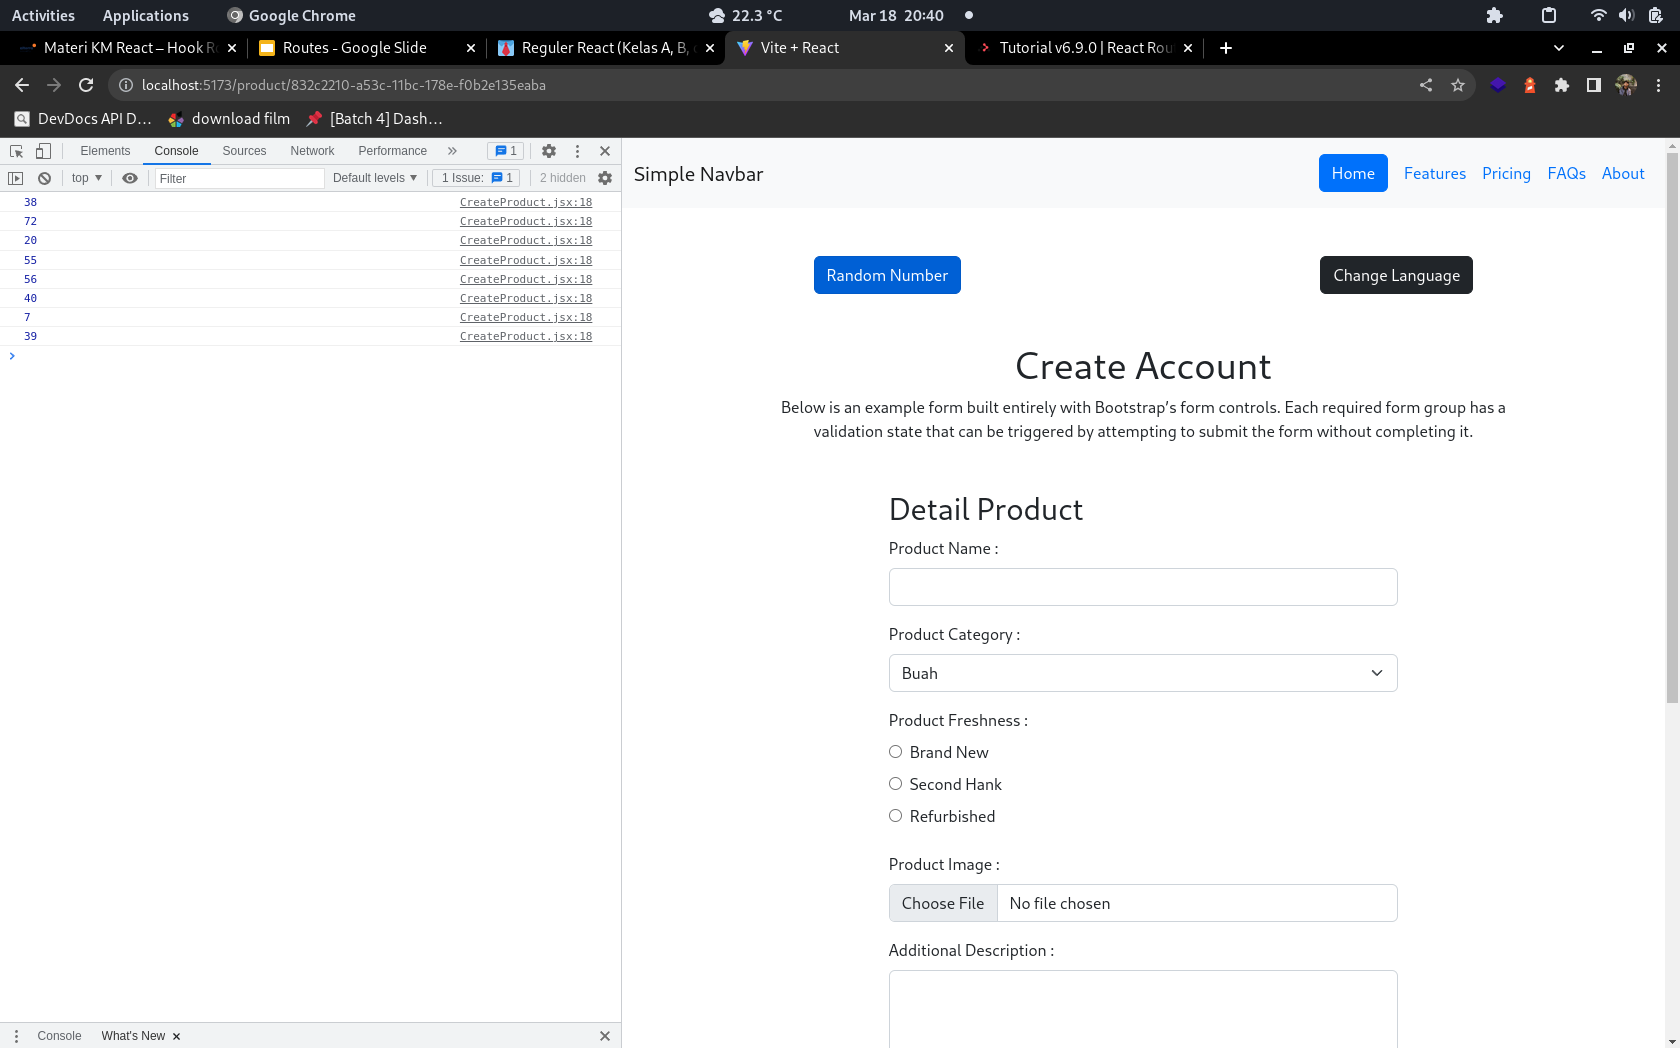
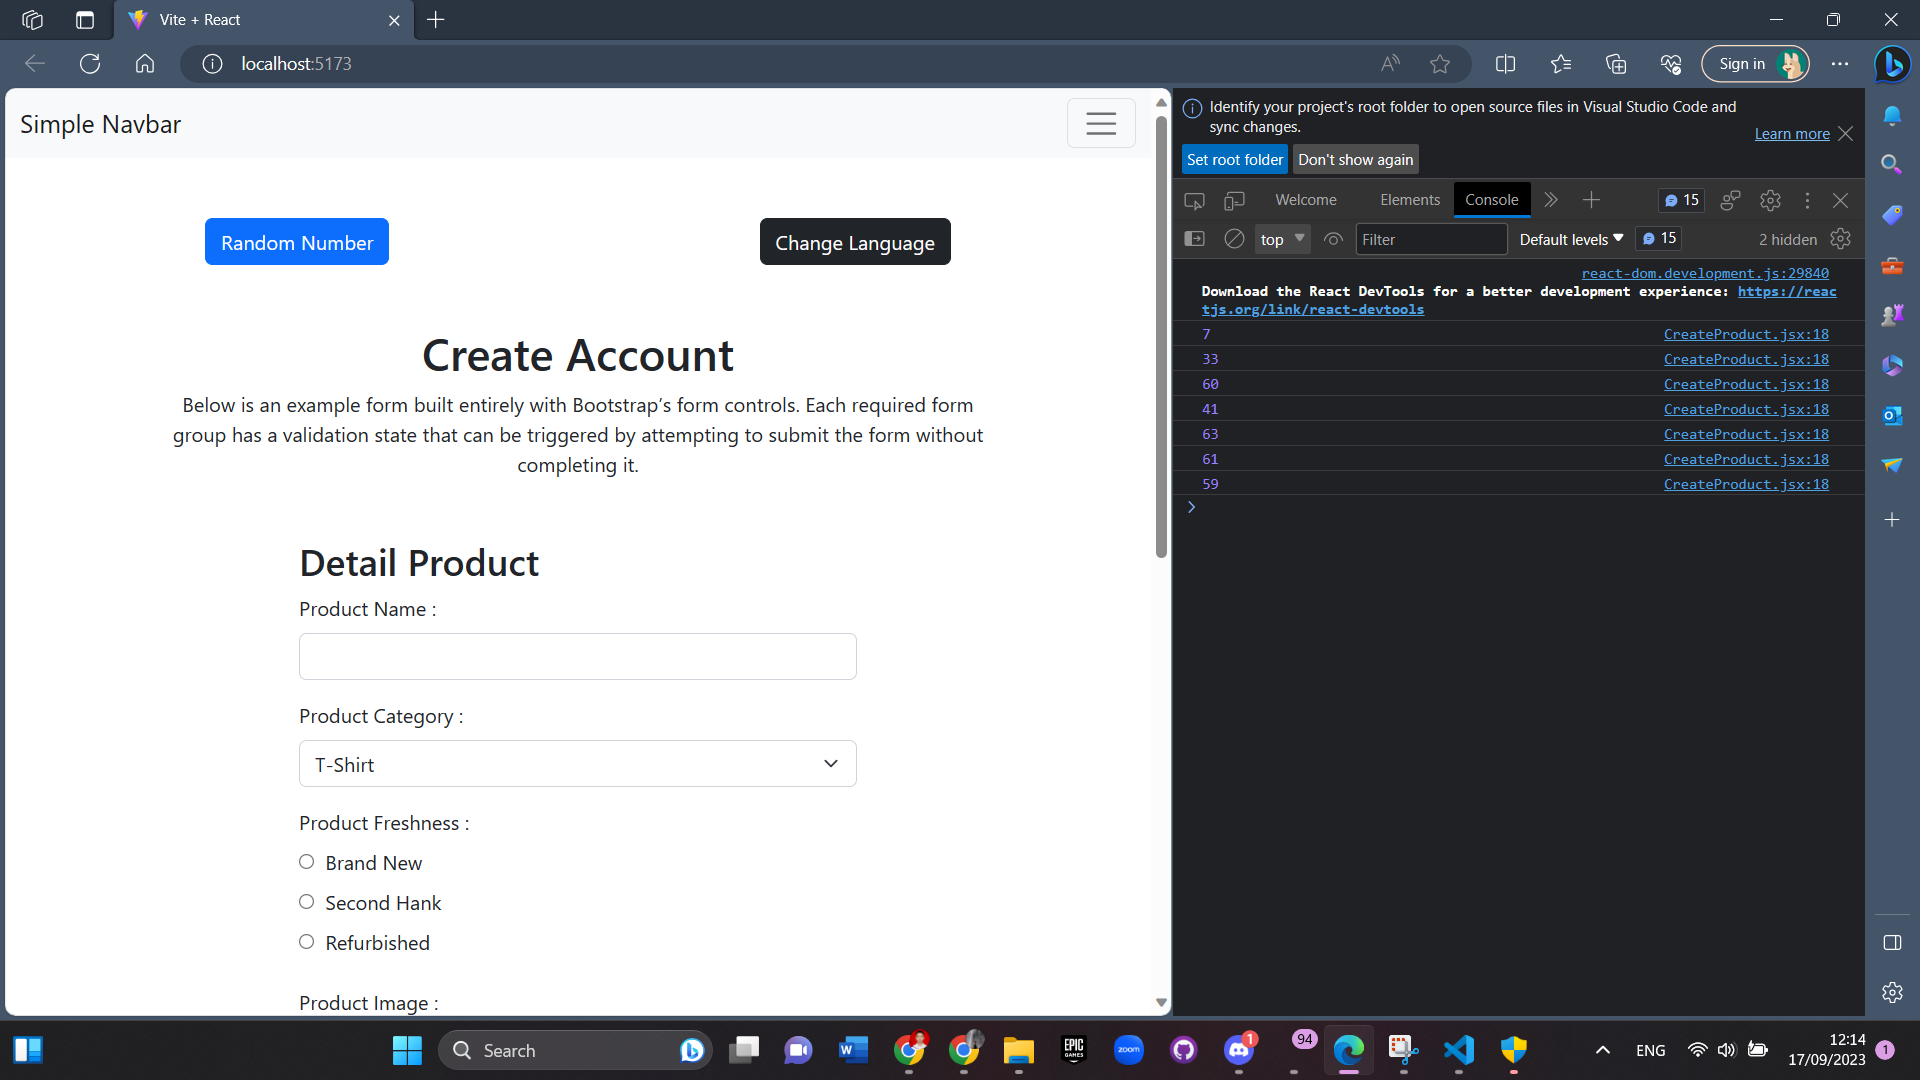
section 12

diff --git a/12_Event-Handling/praktikum/src/pages/CreateProduct/components/Form.jsx b/12_Event-Handling/praktikum/src/pages/CreateProduct/components/Form.jsx
@@ -59,8 +59,8 @@ const Form = ({
           id="product_category"
           required=""
         >
-          <option value={1}>Buah</option>
-          <option value={2}>Sayur</option>
+          <option value={1}>T-Shirt</option>
+          <option value={2}>Hoodie</option>
           <option value={3}>Lainnya</option>
         </select>
         <div className="valid-feedback">Sudah benar!</div>

diff --git a/12_Event-Handling/README.md b/12_Event-Handling/README.md
@@ -1,6 +1,6 @@
 # Section `Event Handling`
 
----
+--- 
 
 ### State
 
@@ -19,4 +19,4 @@ _State_ sendiri menentukan perilaku dari komponen yang kita punya. Kita dapat me
 
 Event Handling adalah metode penanganan sebuah masukan yang dilakukan oleh pengguna pada aplikasi kita. Terdapat banyak sekali event yang dapat dilakukan pengguna.
 
-Untuk list lengkap event apa saja yang dapat kita gunakan dapat dilihat [di sini](https://reactjs.org/docs/events.html#form-events)
+--- 

diff --git a/13_React-Hook/README.md b/13_React-Hook/README.md
@@ -1,4 +1,4 @@
-# Resume Materi KMReact – React Hook
+# Section `React Hook`
 
 ---
 
